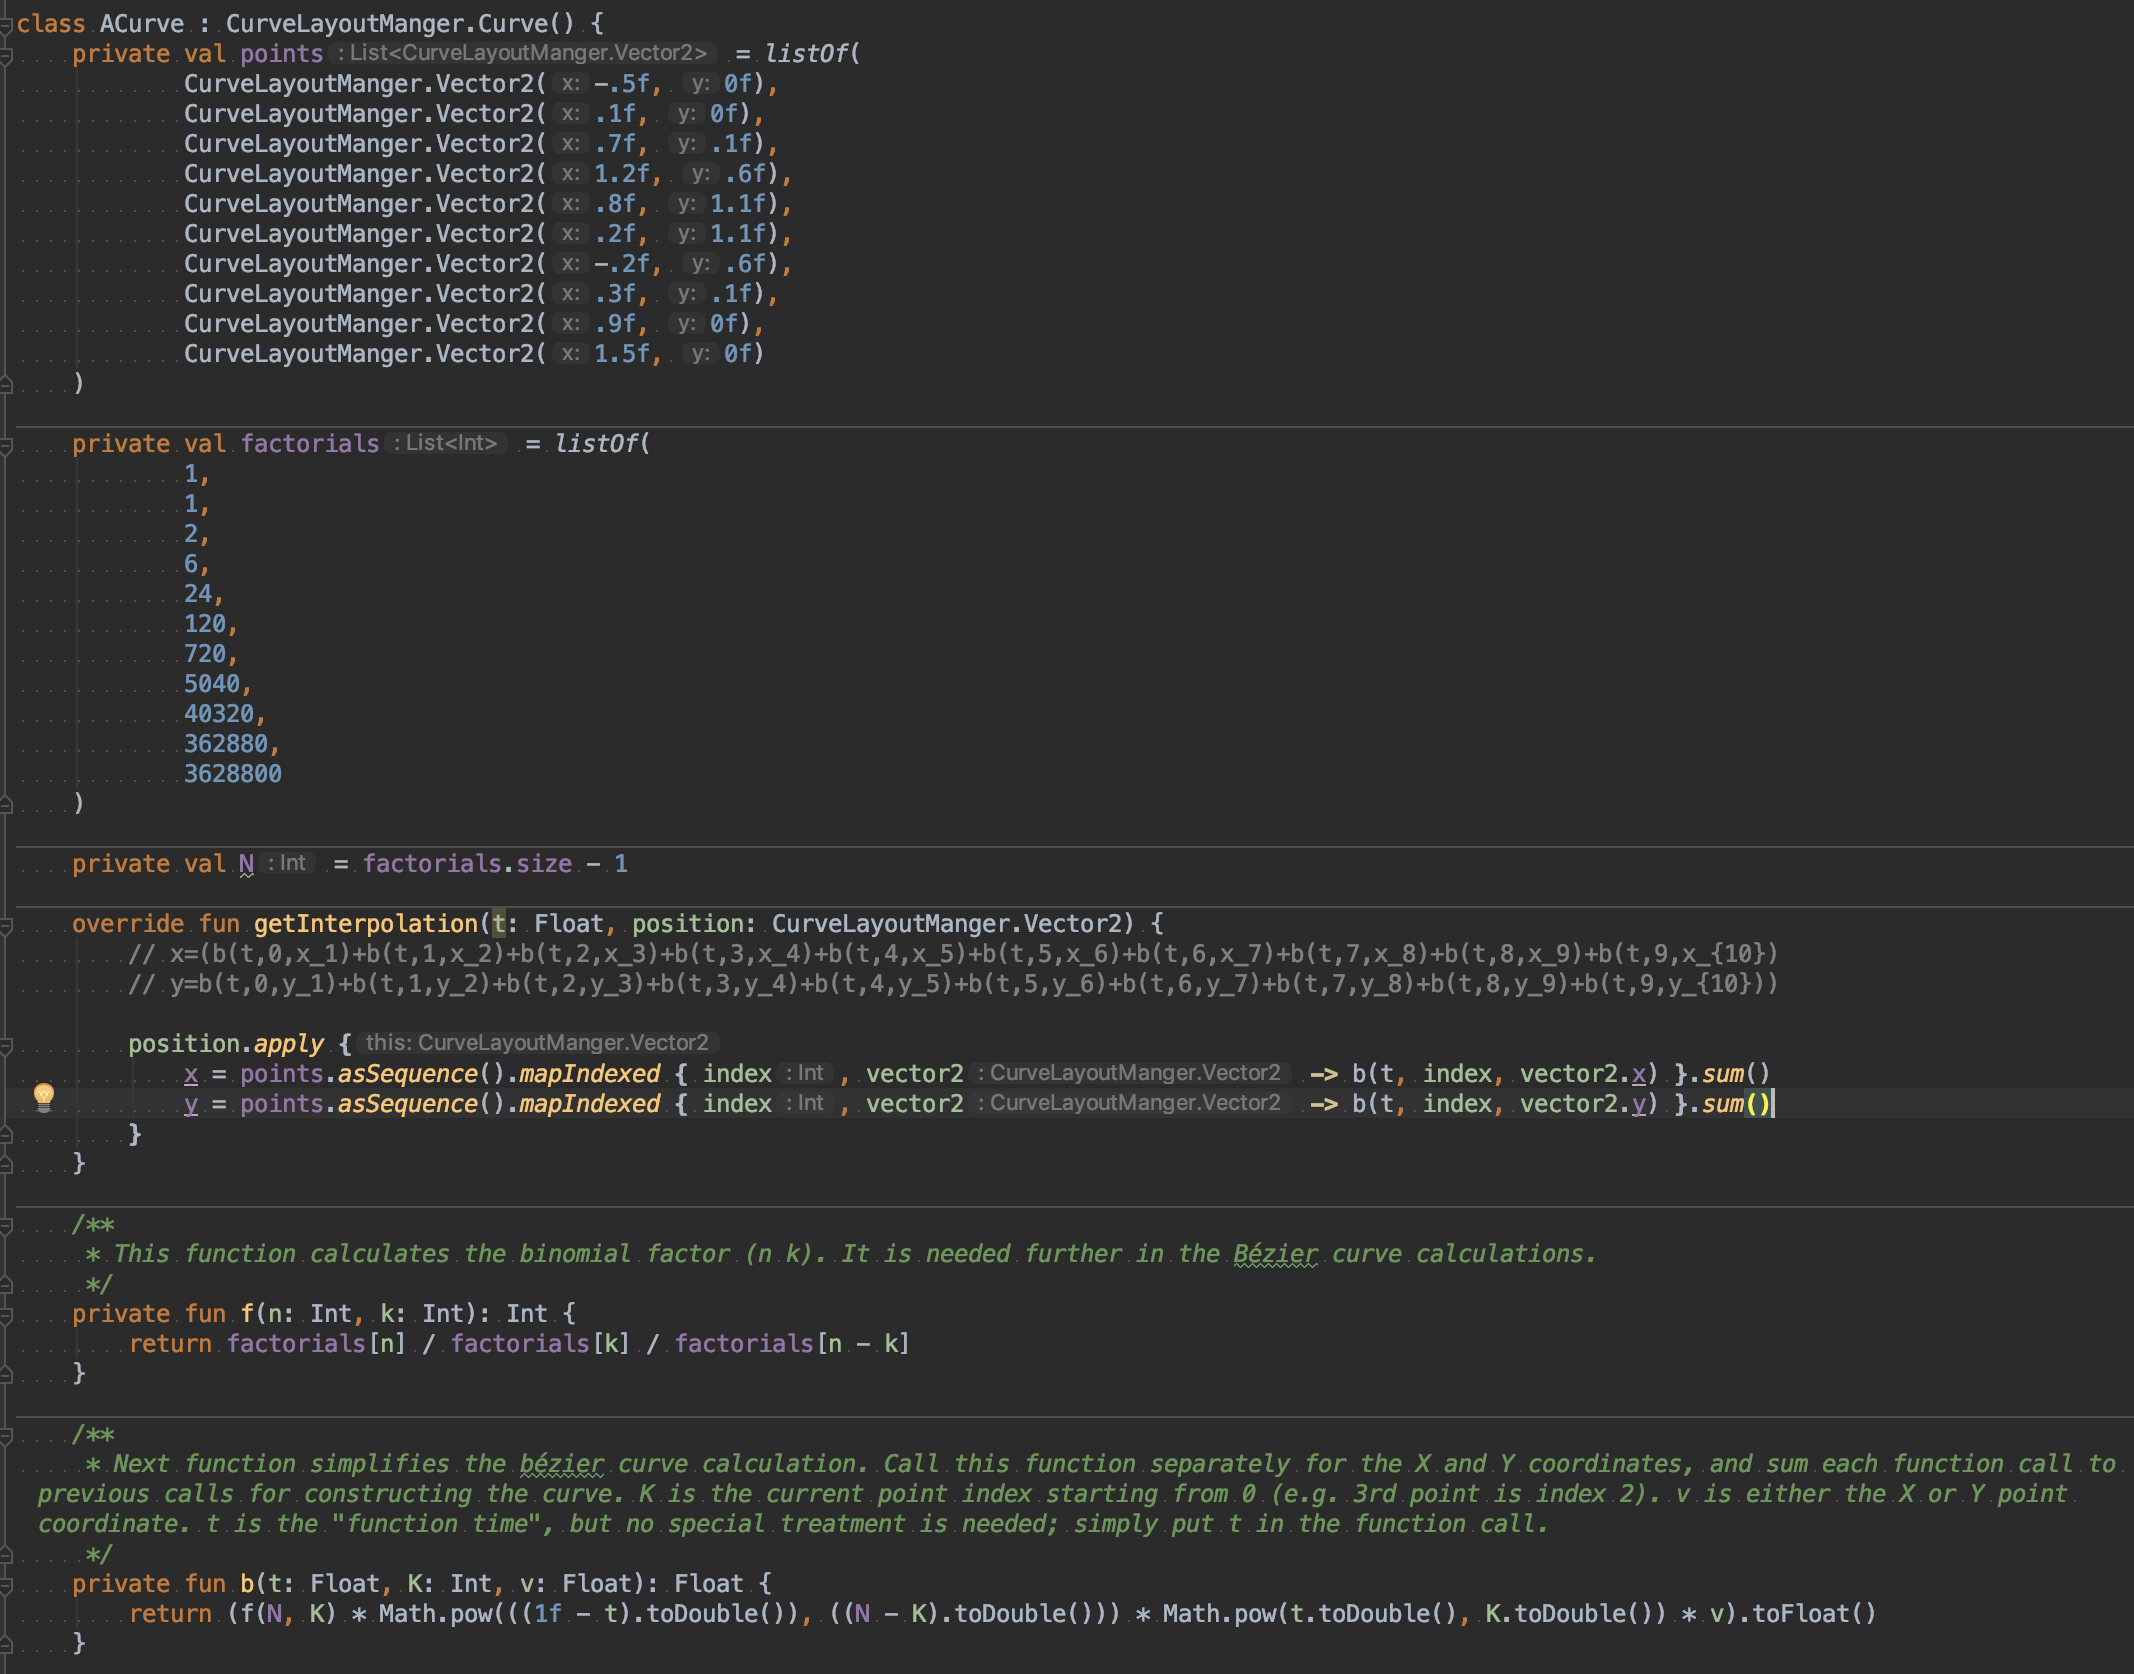
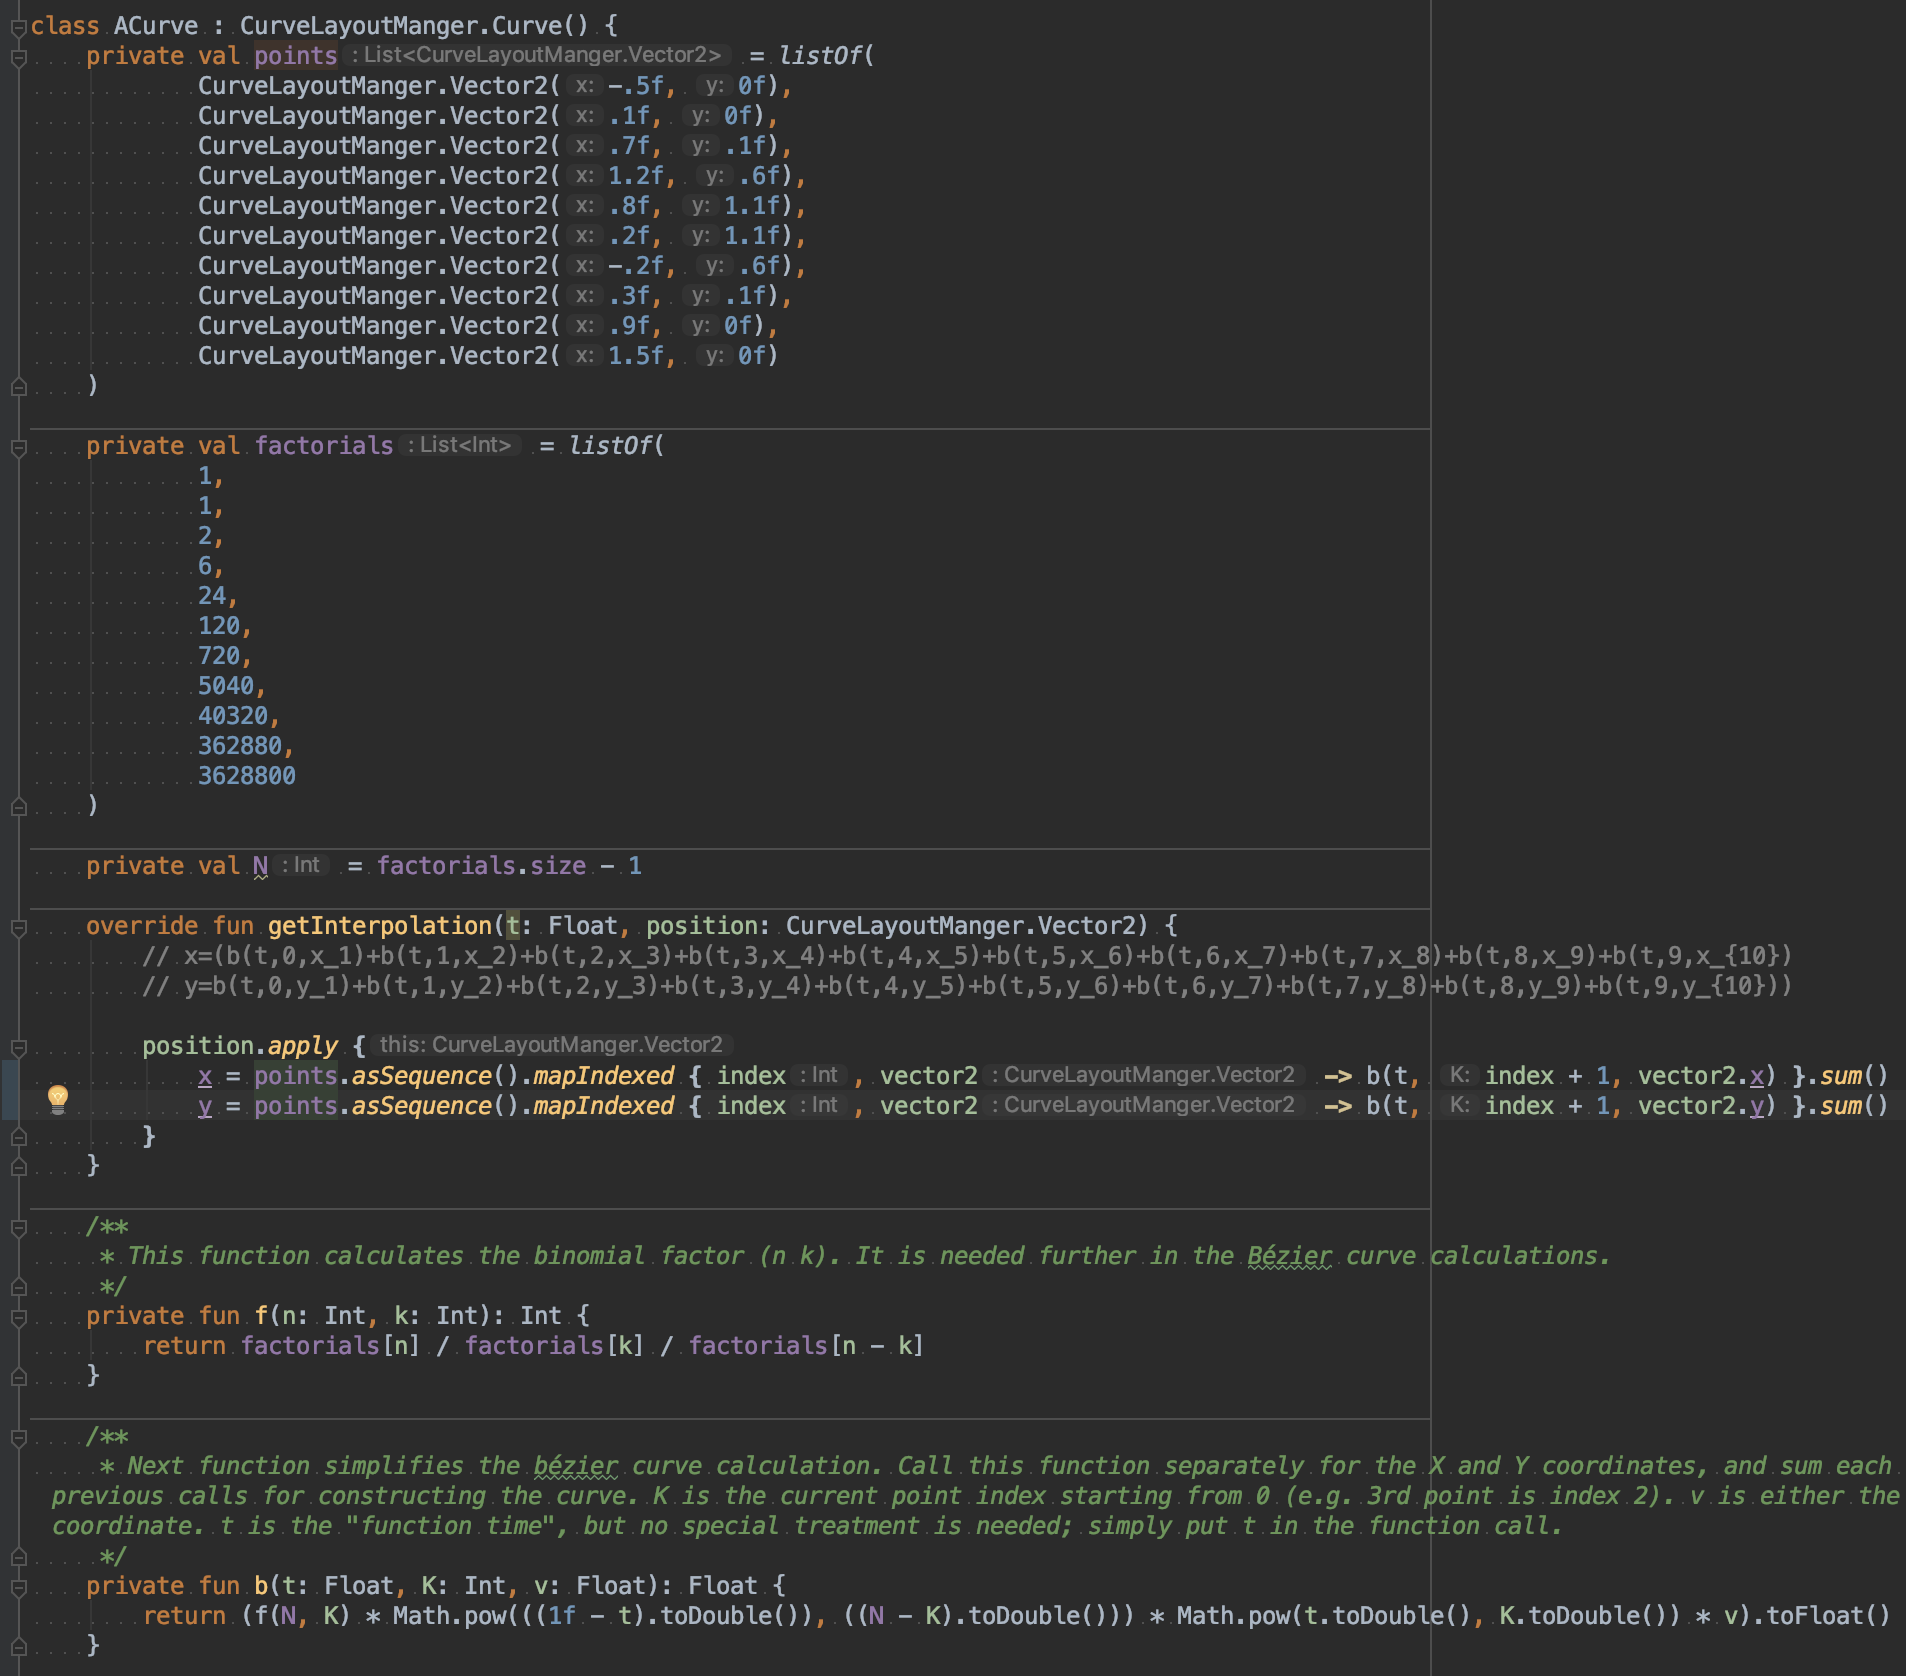
val t = i + .5f

diff --git a/sample/src/main/java/com/fanhl/layoutmanager/sample/curve/ACurve.kt b/sample/src/main/java/com/fanhl/layoutmanager/sample/curve/ACurve.kt
@@ -32,13 +32,15 @@ class ACurve : CurveLayoutManger.Curve() {
 
     private val N = factorials.size - 1
 
-    override fun getInterpolation(t: Float, position: CurveLayoutManger.Vector2) {
+    override fun getInterpolation(i: Float, position: CurveLayoutManger.Vector2) {
         // x=(b(t,0,x_1)+b(t,1,x_2)+b(t,2,x_3)+b(t,3,x_4)+b(t,4,x_5)+b(t,5,x_6)+b(t,6,x_7)+b(t,7,x_8)+b(t,8,x_9)+b(t,9,x_{10})
         // y=b(t,0,y_1)+b(t,1,y_2)+b(t,2,y_3)+b(t,3,y_4)+b(t,4,y_5)+b(t,5,y_6)+b(t,6,y_7)+b(t,7,y_8)+b(t,8,y_9)+b(t,9,y_{10}))
 
+        val t = i + .5f
+
         position.apply {
-            x = points.asSequence().mapIndexed { index, vector2 -> b(t, index, vector2.x) }.sum()
-            y = 1f - points.asSequence().mapIndexed { index, vector2 -> b(t, index, vector2.y) }.sum()
+            x = points.asSequence().mapIndexed { index, vector2 -> b(t, index + 1, vector2.x) }.sum()
+            y = 1 - points.asSequence().mapIndexed { index, vector2 -> b(t, index + 1, vector2.y) }.sum()
         }
     }
 

diff --git a/README_CustomTutorial.md b/README_CustomTutorial.md
@@ -20,5 +20,8 @@ run App:
 
 From right-up coordinate System to right-down coordinate System.
 
-`y = 1f - points.asSequence().mapIndexed { index, vector2 -> b(t, index, vector2.y) }.sum()`
+`y = 1 - points.asSequence().mapIndexed { index, vector2 -> b(t, index + 1, vector2.y) }.sum()`
 
+## Step3. Set init offset.
+
+The first item should be center of screen, it means t=0.5 not t=0.
